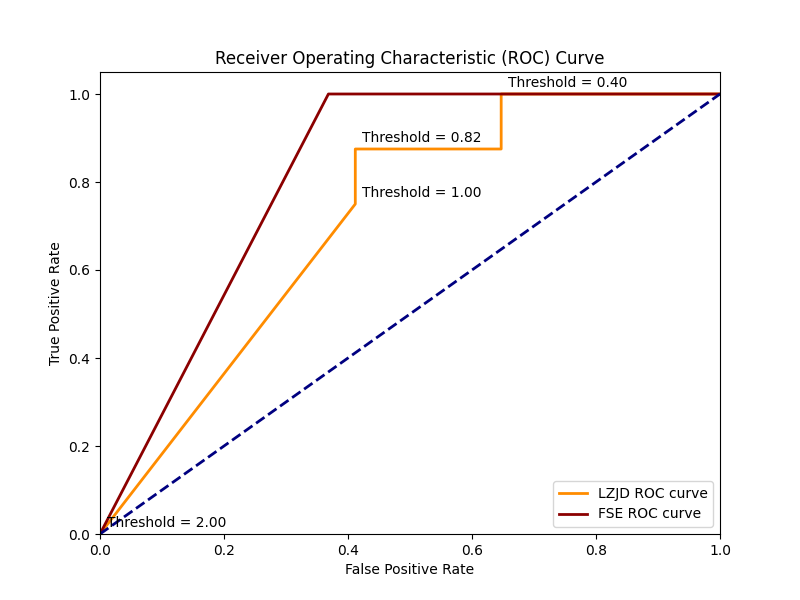
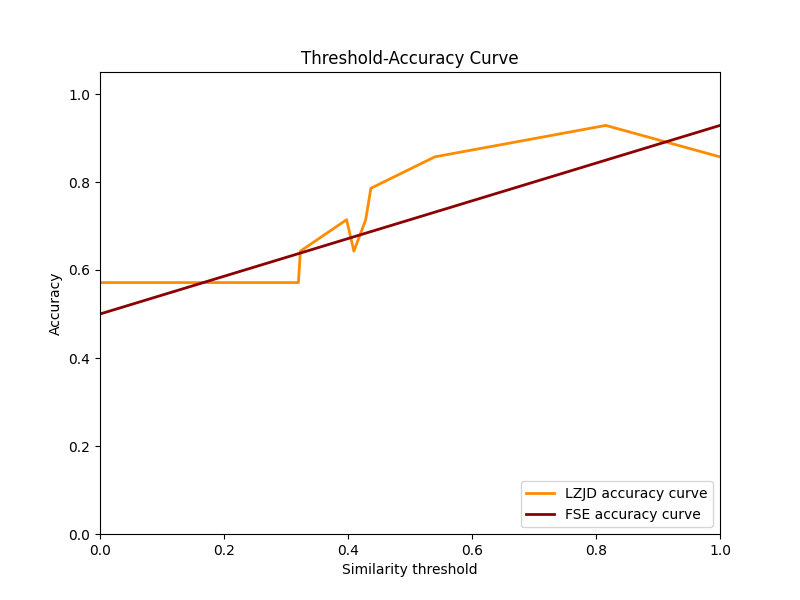
new plot

diff --git a/roc.py b/roc.py
@@ -13,35 +13,63 @@ fse = d[d["strategy"] == "PLOTFSE"]
 lzjd_true, lzjd_pred = lzjd["correct"], lzjd["sim"]
 fse_true, fse_pred = fse["correct"], fse["sim"]
 
-lzjd_fpr, lzjd_tpr, lzjd_thresholds = roc_curve(lzjd_true, lzjd_pred)
-fse_fpr, fse_tpr, fse_thresholds = roc_curve(fse_true, fse_pred)
+# Anything >= threshold is considered the same.
+def eds_roc_curve(T, P):
+    thresholds = sorted(set(P) | {0.0, 1.0})
+    accs = {threshold: sum(t == (p >= threshold) for (t,p) in zip(T,P)) / float(len(P)) for threshold in thresholds}
+
+    #aboves = {threshold: sum(1 for (t,p) in zip(T,P) if p >= threshold) for threshold in thresholds}
+    # ratio of positives that are above the threshold
+    #tp = {threshold: sum(t and (p >= threshold) for (t,p) in zip(T,P)) / aboves[threshold] for threshold in thresholds}
+
+    # ratio of negatives above the threshold
+    #fps = {threshold: sum(not t and (p >= threshold) for (t,p) in zip(T,P)) / aboves[threshold] for threshold in thresholds}
+
+    #print(tps)
+    #print(fps)
+
+    #print(pos)
+    return accs
+    #print(total)
+
+#eds_roc_curve(lzjd_true, lzjd_pred)
+
+#lzjd_fpr, lzjd_tpr, lzjd_thresholds = roc_curve(lzjd_true, lzjd_pred, pos_label=True)
+#fse_fpr, fse_tpr, fse_thresholds = roc_curve(fse_true, fse_pred, pos_label=True)
+
+lzjd_curve = eds_roc_curve(lzjd_true, lzjd_pred)
+fse_curve = eds_roc_curve(fse_true, fse_pred)
+
+#print(lzjd_tpr, lzjd_fpr)
+#print(fse_tpr, fse_fpr)
 
 #import ipdb
 #ipdb.set_trace()
 
-roc_auc = roc_auc_score(lzjd_true, lzjd_pred)
+#roc_auc = roc_auc_score(lzjd_true, lzjd_pred)
 
 plt.figure(figsize=(8, 6))
-plt.plot(lzjd_fpr, lzjd_tpr, color='darkorange', lw=2, label='LZJD ROC curve')
 
-plt.plot(fse_fpr, fse_tpr, color='darkred', lw=2, label='FSE ROC curve')
+plt.plot(lzjd_curve.keys(), lzjd_curve.values(), color='darkorange', lw=2, label='LZJD accuracy curve')
+
+plt.plot(fse_curve.keys(), fse_curve.values(), color='darkred', lw=2, label='FSE accuracy curve')
 
 
 # Annotate the points with thresholds
-last_y = -1000
-for i, threshold in enumerate(lzjd_thresholds):
-    diff = lzjd_tpr[i] - last_y
-    # hand tuned constant
-    if diff > 0.07:
-        last_y = lzjd_tpr[i]
-        plt.annotate(f'Threshold = {threshold:.2f}', (lzjd_fpr[i], lzjd_tpr[i]), textcoords='offset points', xytext=(5,5), ha='left')
+#last_y = -1000
+#for i, threshold in enumerate(lzjd_thresholds):
+#    diff = lzjd_tpr[i] - last_y
+#    # hand tuned constant
+#    if diff > 0.07:
+#        last_y = lzjd_tpr[i]
+#
 
-plt.plot([0, 1], [0, 1], color='navy', lw=2, linestyle='--')
+#plt.plot([0, 1], [0, 1], color='navy', lw=2, linestyle='--')
 plt.xlim([0.0, 1.0])
 plt.ylim([0.0, 1.05])
-plt.xlabel('False Positive Rate')
-plt.ylabel('True Positive Rate')
-plt.title('Receiver Operating Characteristic (ROC) Curve')
+plt.xlabel('Similarity threshold')
+plt.ylabel('Accuracy')
+plt.title('Threshold-Accuracy Curve')
 plt.legend(loc='lower right')
 plt.savefig(sys.argv[2], format='png')
 plt.close()

diff --git a/lzjd-script.py b/lzjd-script.py
@@ -112,9 +112,12 @@ def name_fun(addrstr, m, return_none_for_unknown=False):
 funs1 = {fun['fn_addr']: (fun['pic_bytes'], digest(fun['pic_bytes'])) for fun in tqdm.tqdm(j1['analysis'], desc="hashing functions")}
 funs2 = {fun['fn_addr']: (fun['pic_bytes'], digest(fun['pic_bytes'])) for fun in tqdm.tqdm(j2['analysis'], desc="hashing functions")}
 
-from itertools import product
+# Only compare functions for which we have names...
+funs1 = {k: v for k,v in funs1.items() if name_fun(k, m1, return_none_for_unknown=True) is not None}
+funs2 = {k: v for k,v in funs2.items() if name_fun(k, m2, return_none_for_unknown=True) is not None}
 
-sims = [(fun1_addr, fun2_addr, fun1_bytes, fun2_bytes, eds_sim(fun1_hash, fun2_hash)) for (fun1_addr, (fun1_bytes, fun1_hash)), (fun2_addr, (fun2_bytes, fun2_hash)) in tqdm.tqdm(product(funs1.items(), funs2.items()), total=len(funs1)*len(funs2), desc="Comparing all pairs")]
+
+sims = [(fun1_addr, fun2_addr, fun1_bytes, fun2_bytes, eds_sim(fun1_hash, fun2_hash)) for (fun1_addr, (fun1_bytes, fun1_hash)), (fun2_addr, (fun2_bytes, fun2_hash)) in tqdm.tqdm(itertools.product(funs1.items(), funs2.items()), total=len(funs1)*len(funs2), desc="Comparing all pairs")]
 random.shuffle(sims)
 sims.sort(key=lambda t: -t[4])
 
@@ -167,7 +170,7 @@ for fun in intersect_fun_names:
 #j1hash = {f['fn_addr']: f['pic_hash'] for f in j1['analysis']}
 #j2hash = {f['fn_addr']: f['pic_hash'] for f in j2['analysis']}
 
-pic_comparisons = [(addr1, addr2, 1.0 if hash1 == hash2 else 0.0) for ((addr1, (hash1, _)), (addr2, (hash2, _))) in product(funs1.items(), funs2.items())]
+pic_comparisons = [(addr1, addr2, 1.0 if hash1 == hash2 else 0.0) for ((addr1, (hash1, _)), (addr2, (hash2, _))) in itertools.product(funs1.items(), funs2.items())]
 random.shuffle(pic_comparisons)
 pic_comparisons.sort(key=lambda t: -t[2])
 
